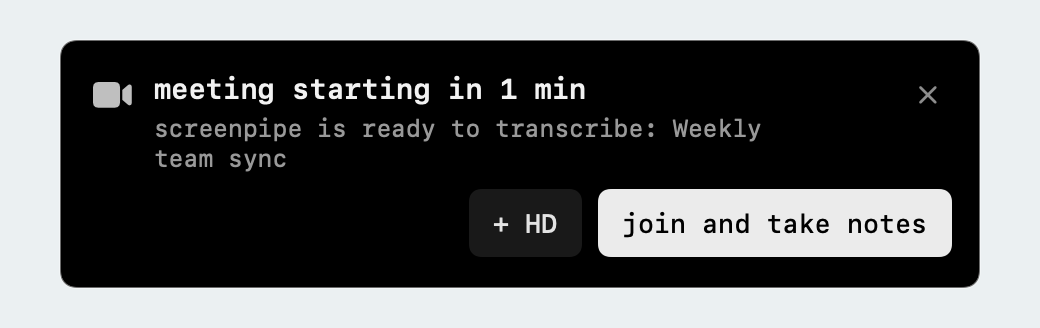
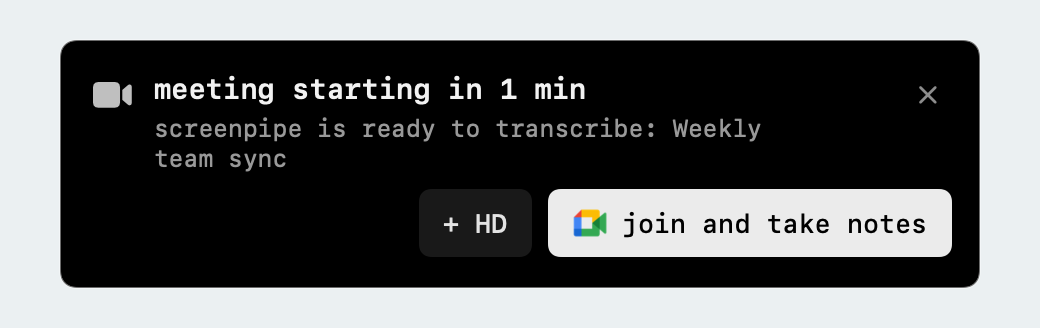
feat(macos): show the meeting provider on the join button

Changed region(s): [[0.4, 0.5793, 0.5846, 0.7927]]

diff --git a/apps/screenpipe-app-tauri/src-tauri/swift/shortcut_reminder.swift b/apps/screenpipe-app-tauri/src-tauri/swift/shortcut_reminder.swift
@@ -161,6 +161,44 @@ final class OverlayMetrics: ObservableObject {
     @Published var hoveredControl: String? = nil
 }
 
+/// Identify the service from the join destination, never from translated copy.
+enum MeetingJoinProvider: String, CaseIterable {
+    case googleMeet, zoom, teams, webex, other
+
+    static func from(url: String) -> MeetingJoinProvider {
+        guard let destination = URL(string: url),
+              let scheme = destination.scheme?.lowercased(),
+              ["https", "http", "zoommtg", "zoomus", "msteams"].contains(scheme),
+              let rawHost = destination.host else { return .other }
+        let host = rawHost.lowercased().trimmingCharacters(in: CharacterSet(charactersIn: "."))
+        func matches(_ domain: String) -> Bool {
+            host == domain || host.hasSuffix("." + domain)
+        }
+        if host == "meet.google.com" { return .googleMeet }
+        if matches("zoom.us") || matches("zoom.com") || matches("zoomgov.com") { return .zoom }
+        if ["teams.microsoft.com", "teams.live.com", "teams.cloud.microsoft"].contains(host) { return .teams }
+        if matches("webex.com") { return .webex }
+        return .other
+    }
+
+    var image: NSImage? { Self.images[self] }
+
+    // Embedded 48px PNGs keep the static Swift library independent of resource
+    // paths and network access. Source and license: docs/meeting-provider-icons.md.
+    private static let images: [MeetingJoinProvider: NSImage] = {
+        let encoded: [MeetingJoinProvider: String] = [
[4 lines of base64/hex data omitted]
+        ]
+        return encoded.compactMapValues { value in
+            guard let data = Data(base64Encoded: value) else { return nil }
+            return NSImage(data: data)
+        }
+    }()
+}
+
 /// One clickable button on a notification shown from the pill.
 struct OverlayNotificationAction: Identifiable, Equatable {
     /// Opaque payload handed back to Rust verbatim so the pill reuses the same
@@ -169,6 +207,7 @@ struct OverlayNotificationAction: Identifiable, Equatable {
     let label: String
     let primary: Bool
     let payload: String
+    let meetingProvider: MeetingJoinProvider?
 }
 
 /// A notification rendered as an extension of the pill rather than as a
@@ -208,7 +247,10 @@ struct OverlayNotification: Equatable {
                 id: actionId,
                 label: label,
                 primary: (action["primary"] as? Bool) ?? false,
-                payload: payload
+                payload: payload,
+                meetingProvider: action["type"] as? String == "meeting_join"
+                    ? MeetingJoinProvider.from(url: action["url"] as? String ?? "")
+                    : nil
             )
         }
 
@@ -1664,10 +1706,27 @@ private struct OverlayNotificationView: View {
     private var actionButtons: some View {
         ForEach(orderedActions) { action in
             Button(action: { onAction(action) }) {
-                Text(action.label)
-                    .font(Brand.swiftUIMonoFont(size: (notification.isMeetingJoin ? 13 : 9) * scale, weight: .medium))
+                HStack(spacing: s(7)) {
+                    if let provider = action.meetingProvider {
+                        if let image = provider.image {
+                            Image(nsImage: image)
+                                .resizable()
+                                .interpolation(.high)
+                                .scaledToFit()
+                                .frame(width: s(18), height: s(18))
+                                .accessibilityHidden(true)
+                        } else {
+                            Image(systemName: "video.fill")
+                                .font(.system(size: 16 * scale))
+                                .frame(width: s(18), height: s(18))
+                                .accessibilityHidden(true)
+                        }
+                    }
+                    Text(action.label)
+                        .font(Brand.swiftUIMonoFont(size: (notification.isMeetingJoin ? 13 : 9) * scale, weight: .medium))
+                        .lineLimit(1)
+                }
                     .foregroundColor(action.primary ? .black : .white.opacity(0.88))
-                    .lineLimit(1)
                     .padding(.horizontal, s(notification.isMeetingJoin ? 12 : 8))
                     .frame(height: s(notification.isMeetingJoin ? 34 : 22))
                     .background(

diff --git a/apps/screenpipe-app-tauri/src-tauri/swift/shortcut_reminder_tests.swift b/apps/screenpipe-app-tauri/src-tauri/swift/shortcut_reminder_tests.swift
@@ -573,6 +573,41 @@ private func testMeetingJoinNotification() {
     }
 }
 
+private func testMeetingProviderIcons() {
+    let cases: [(String, MeetingJoinProvider)] = [
+        ("https://meet.google.com/abc-defg-hij", .googleMeet),
+        ("https://MEET.GOOGLE.COM./abc-defg-hij", .googleMeet),
+        ("https://us02web.zoom.us/j/123", .zoom),
+        ("zoommtg://zoom.us/join?confno=123", .zoom),
+        ("https://company.zoom.com/j/123", .zoom),
+        ("https://agency.zoomgov.com/j/123", .zoom),
+        ("https://teams.microsoft.com/l/meetup-join/example", .teams),
+        ("https://teams.live.com/meet/123", .teams),
+        ("https://teams.cloud.microsoft/meet/123", .teams),
+        ("https://company.webex.com/meet/example", .webex),
+        ("https://unknown.example/meet", .other),
+        ("https://zoom.us.example.org/j/123", .other),
+        ("https://notzoom.us/j/123", .other),
+        ("https://zoom.us@evil.example/j/123", .other),
+        ("https://evil.example/?url=https://meet.google.com/abc", .other),
+        ("file://meet.google.com/abc", .other),
+        ("not a URL", .other),
+        ("", .other),
+    ]
+    for (url, provider) in cases {
+        expect(MeetingJoinProvider.from(url: url) == provider, "wrong provider for \(url)")
+    }
+    for provider in MeetingJoinProvider.allCases where provider != .other {
+        expect(provider.image?.isValid == true, "missing embedded icon for \(provider)")
+    }
+    let json = """
+    {"id":"icon","title":"test","actions":[{"label":"Rejoindre","type":"meeting_join","url":"https://meet.google.com/abc"},{"label":"+ HD","type":"api","url":"/capture/hd/start"}]}
+    """
+    let parsed = OverlayNotification.parse(json)!
+    expect(parsed.actions[0].meetingProvider == .googleMeet, "join action needs the provider icon")
+    expect(parsed.actions[1].meetingProvider == nil, "HD action must not get a meeting icon")
+}
+
 @main
 struct ShortcutReminderTests {
     static func main() {
@@ -592,6 +627,7 @@ struct ShortcutReminderTests {
         testTieBreaksToCurrent()
         testAttachmentStacking()
         testAttachmentStaysOnScreen()
+        testMeetingProviderIcons()
         testMeetingJoinNotification()
         testWireContract()
         testShortcutGlyphs()

diff --git a/docs/meeting-provider-icons.md b/docs/meeting-provider-icons.md
@@ -1,0 +1,21 @@
+# Meeting provider icons
+
+<!-- doc-covers: none -->
+
+The native shortcut notification embeds 48 px PNGs in `MeetingJoinProvider` in
+`apps/screenpipe-app-tauri/src-tauri/swift/shortcut_reminder.swift`. They display
+at 18 points, use the actual join URL to select a service, and require no runtime
+network request or installed meeting app. Unknown services use an SF Symbols
+video icon. The original action label and destination remain unchanged.
+
+Sources:
+
+- Google Meet: existing `apps/screenpipe-app-tauri/public/images/google-meet.png`.
+- Zoom: [SVG Logos zoom-icon.svg](https://github.com/gilbarbara/logos/blob/4a5b550414be64d5c007574cd395d910d50e8950/logos/zoom-icon.svg).
+- Microsoft Teams: [SVG Logos microsoft-teams.svg](https://github.com/gilbarbara/logos/blob/4a5b550414be64d5c007574cd395d910d50e8950/logos/microsoft-teams.svg).
+- Webex: [Simple Icons webex.svg](https://github.com/simple-icons/simple-icons/blob/4d29a35c954699b389a834aacc97dd6e7e74143c/icons/webex.svg).
+
+SVG Logos and Simple Icons distribute these assets under CC0-1.0. Product names
+and logos remain trademarks of their respective owners. SVGs were rasterized
+with AppKit, preserving aspect ratio in a transparent 48 x 48 canvas, then
+encoded as base64 PNGs. Google Meet was resized from the existing PNG the same way.
